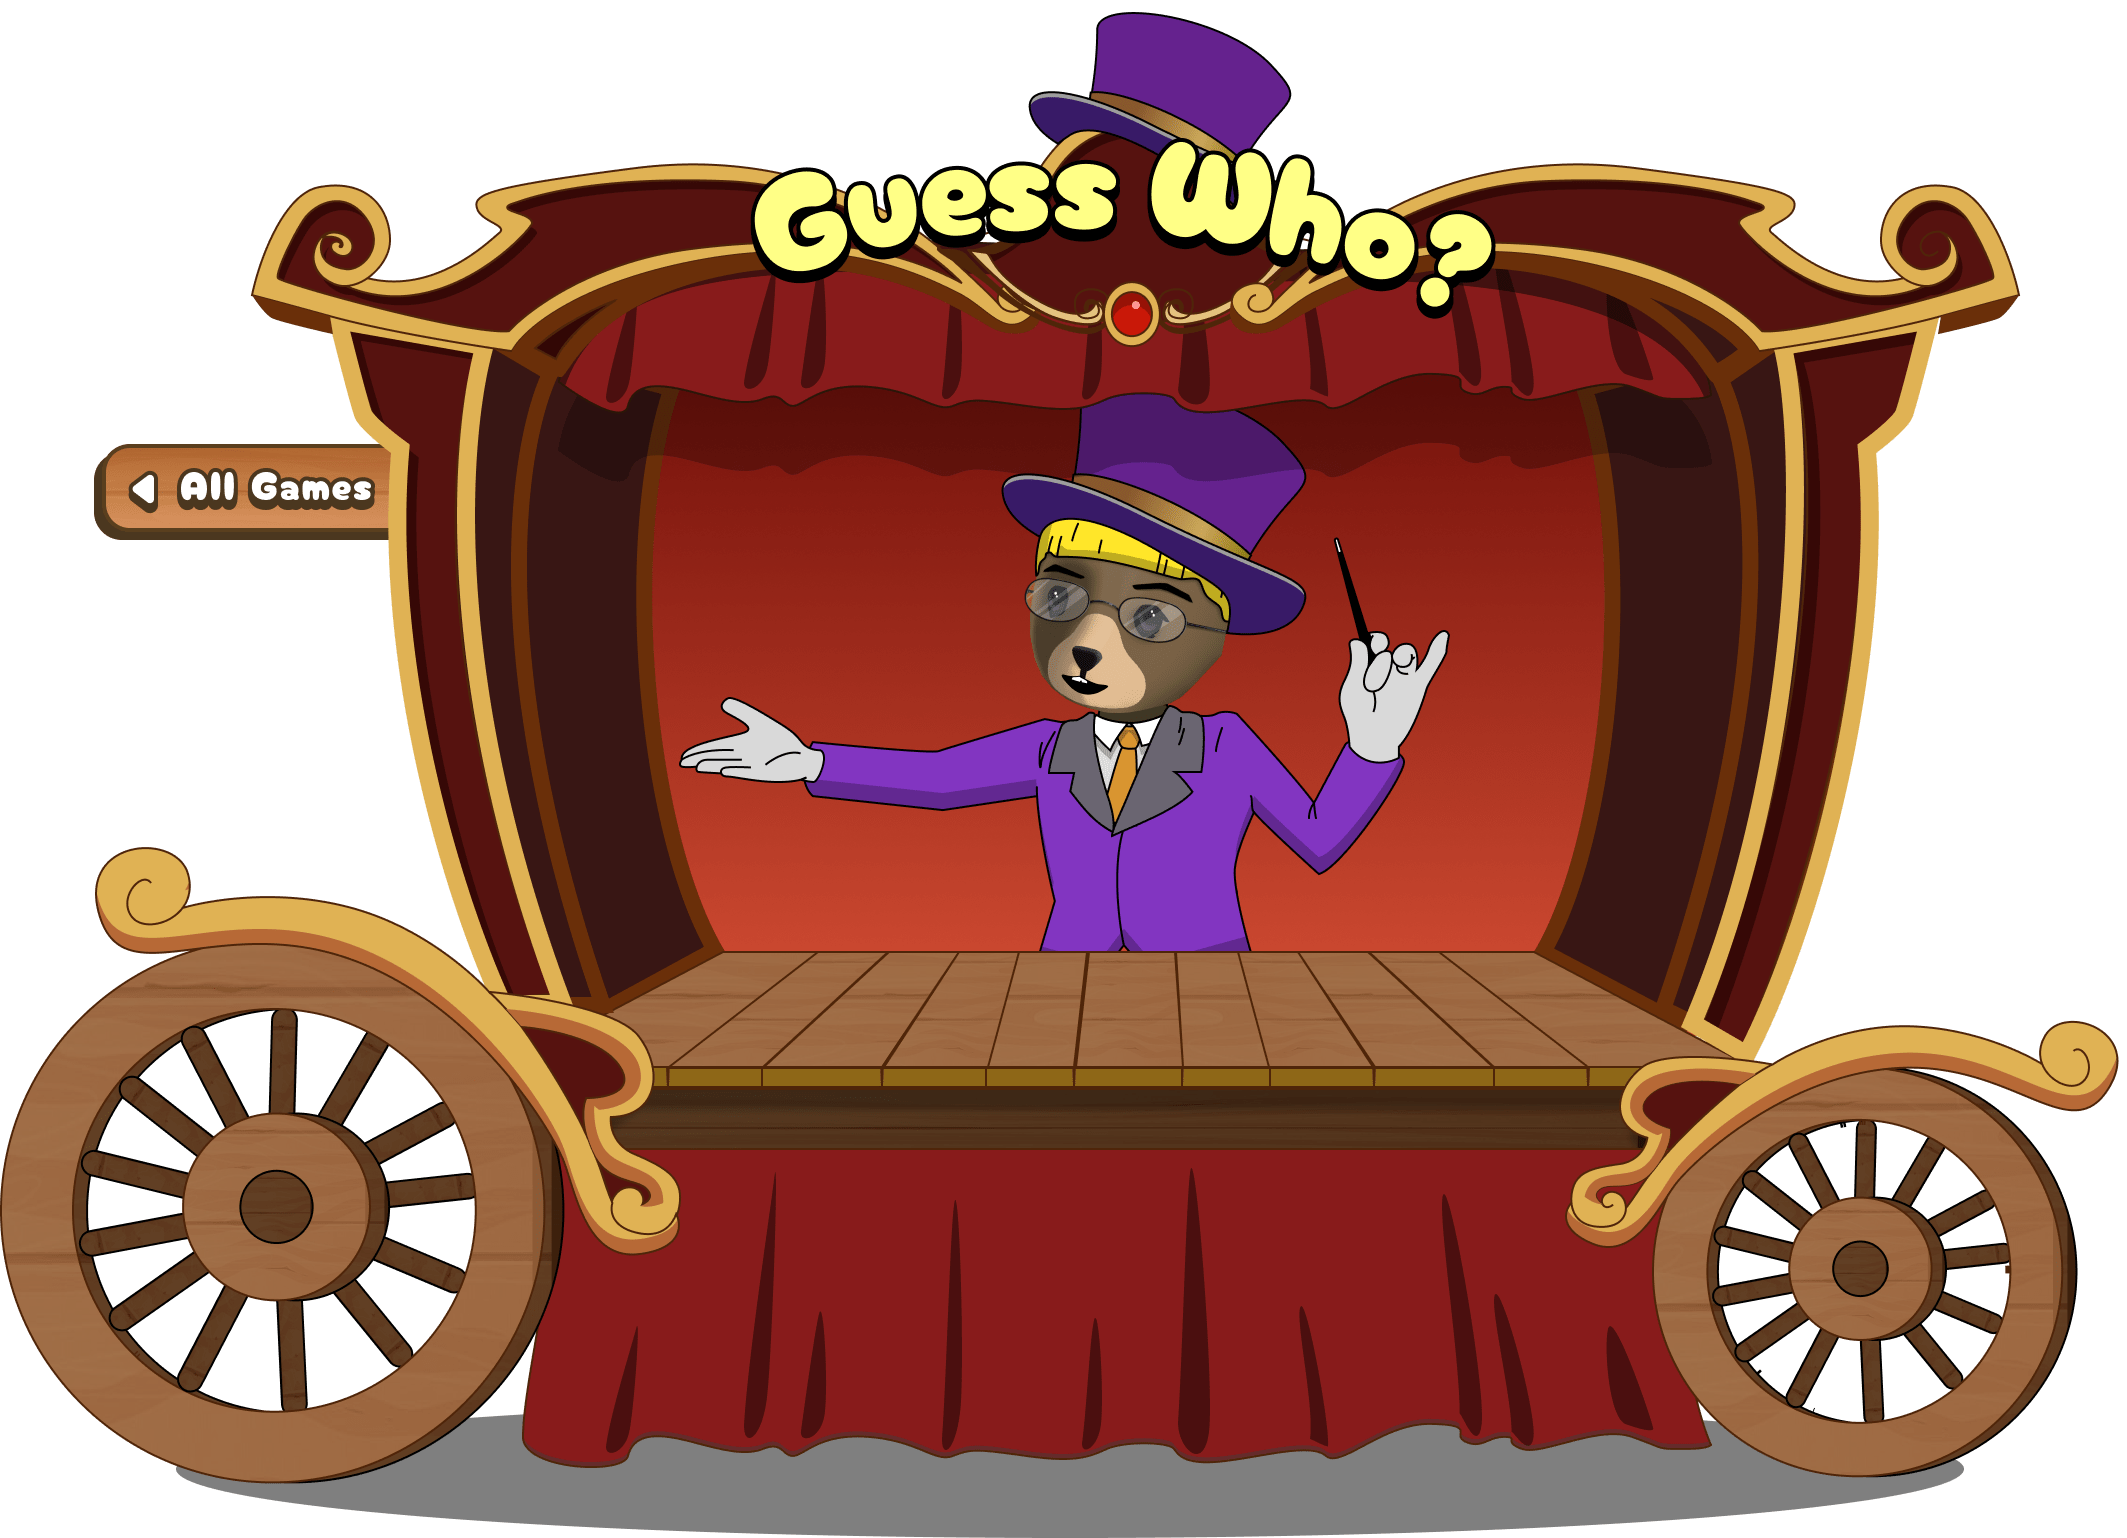
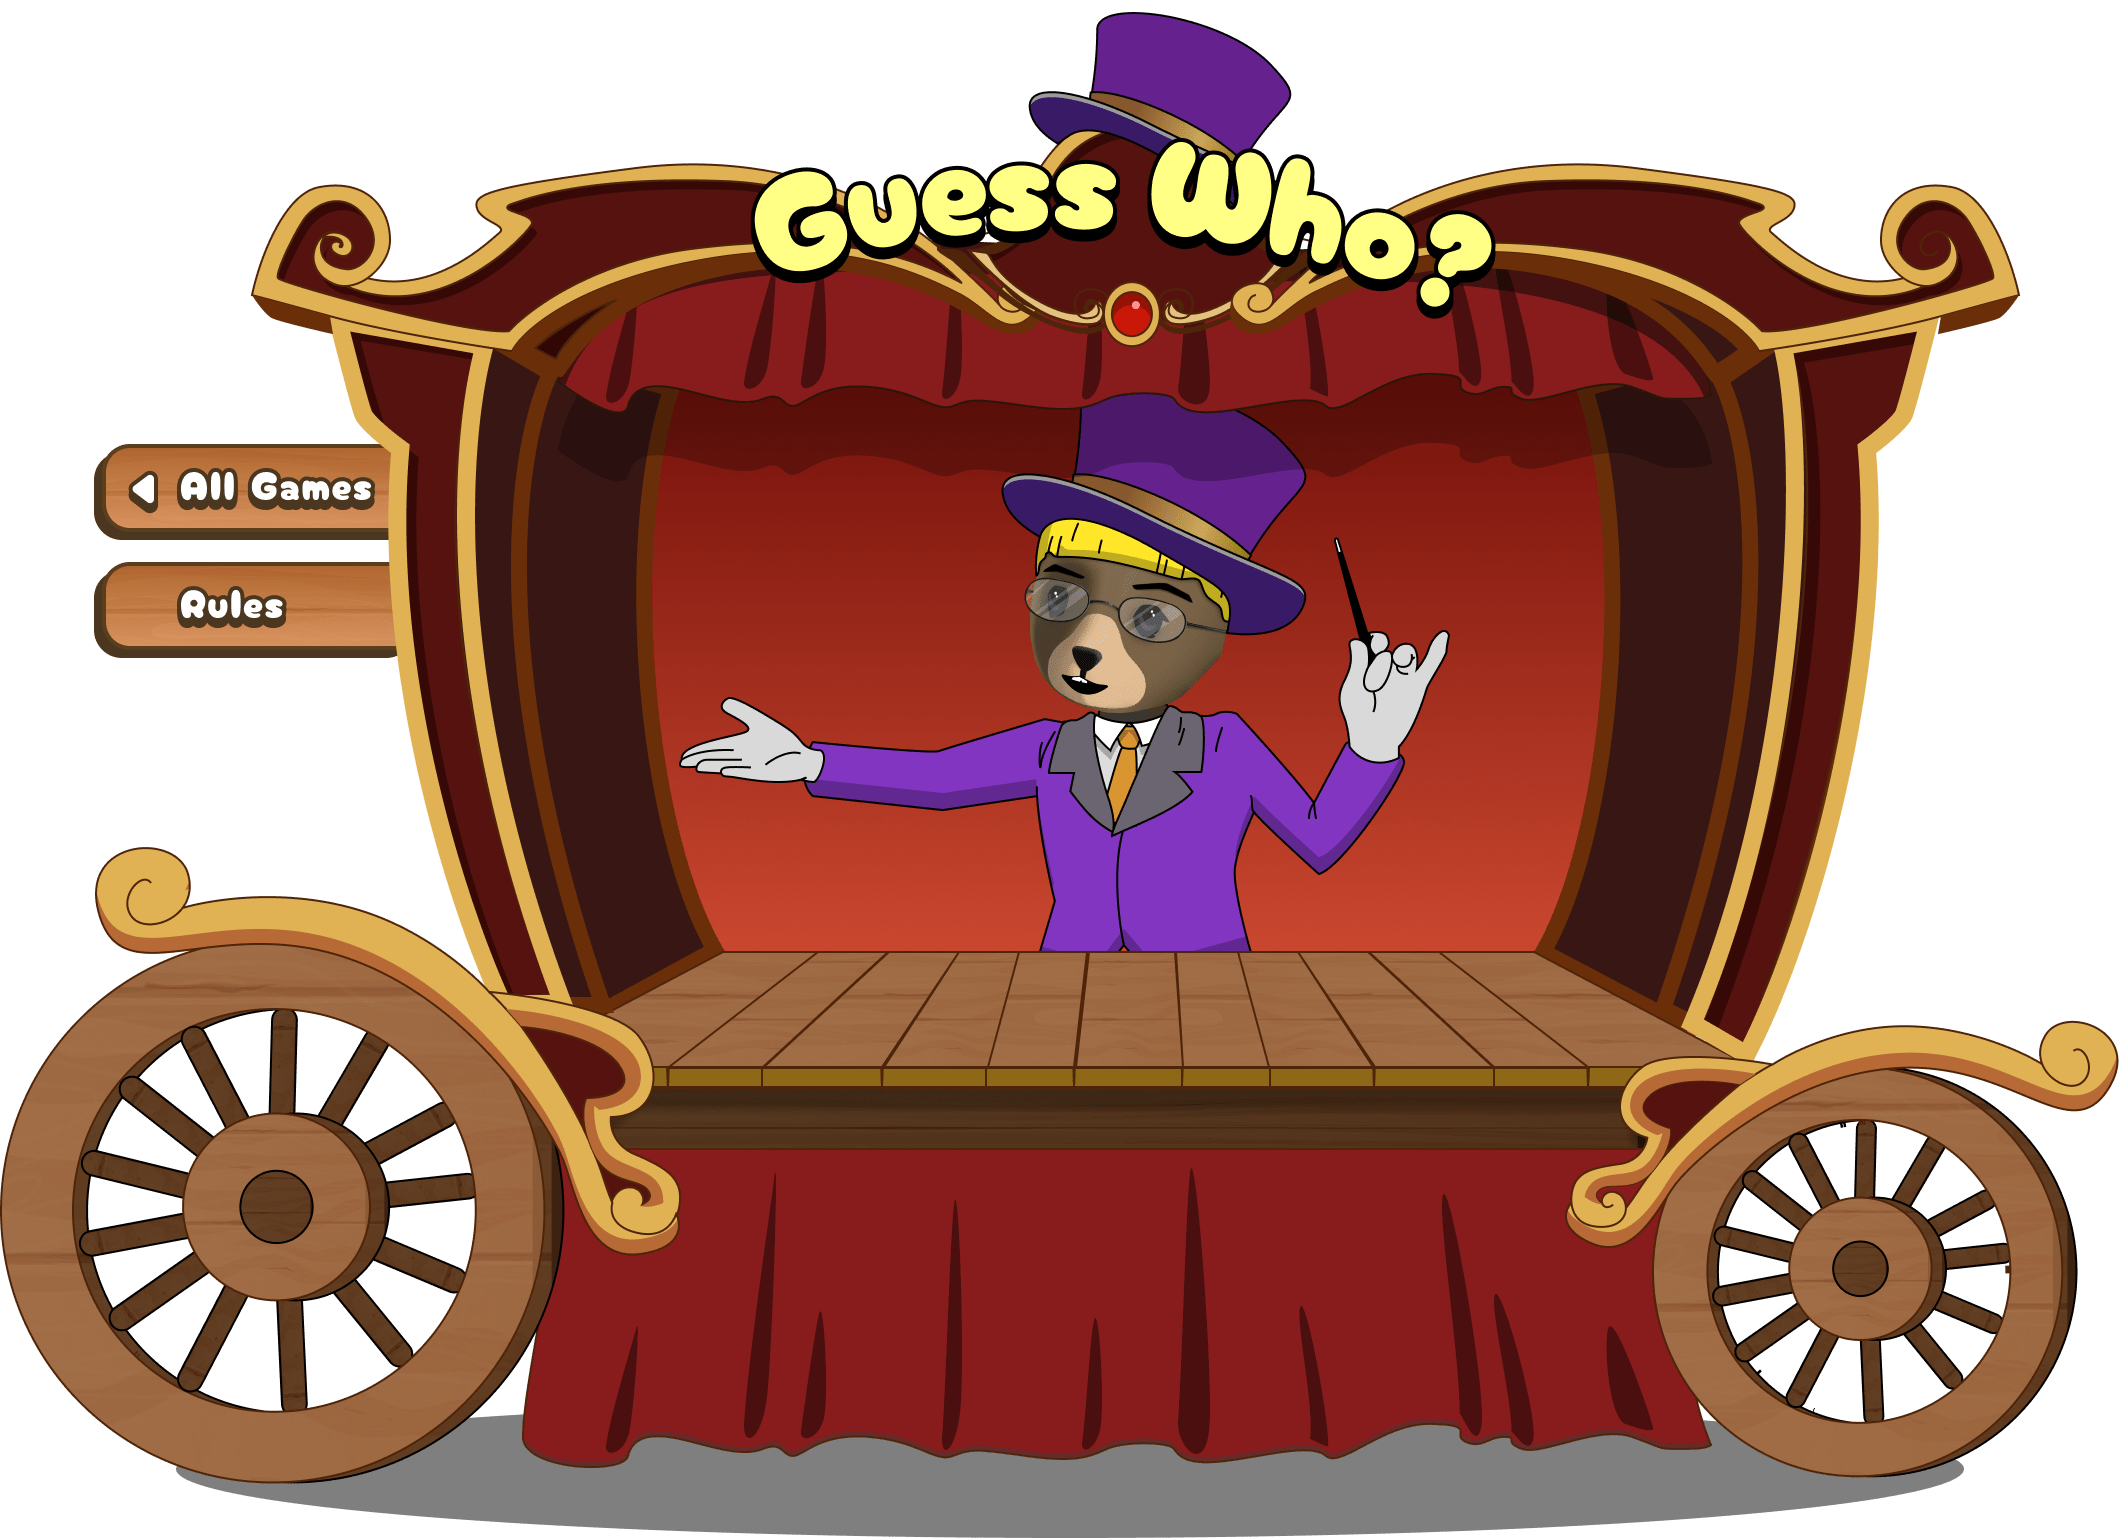
feat: add interactive button in Join section and update List section with commented-out button for rules

Changed region(s): [[0.031, 0.3433, 0.1862, 0.4369]]

diff --git a/src/sections/playground/magician/sections/join.tsx b/src/sections/playground/magician/sections/join.tsx
@@ -51,6 +51,14 @@ const Join = (props: any) => {
         />
         <button
           type="button"
+          className="w-[144px] h-[40px] border-[1px] rounded-l-[12px] absolute left-[52px] top-[283px] opacity-0 hover:opacity-30 bg-white/50 transition-all duration-300"
+          onClick={() => {
+            magician.playAudio({ type: "click", action: "play" });
+            magician.setRulesOpen(true);
+          }}
+        />
+        {/* <button
+          type="button"
           className="absolute top-[180px] right-[100px] w-[55px] h-[30px] border border-black rounded-[12px] bg-[linear-gradient(180deg,_#FFCE78_0%,_#9E762F_100%)] rotate-[-8.017deg] font-CherryBomb text-[16px] font-[400] leading-[90%]"
           onClick={() => {
             magician.playAudio({ type: "click", action: "play" });
@@ -58,7 +66,7 @@ const Join = (props: any) => {
           }}
         >
           Rules
-        </button>
+        </button> */}
         {
           !!join.result ? (
             <>

diff --git a/src/sections/playground/magician/sections/list.tsx b/src/sections/playground/magician/sections/list.tsx
@@ -196,7 +196,7 @@ const List = (props: any) => {
       </div>
       <div className="w-[837px] relative mt-[10px] p-[13px_20px] bg-[#BC9549] border border-[#000] shadow-[4px_4px_0_0_#4B371F] rounded-[10px]">
         <div className="flex justify-center items-center relative">
-          <Button
+          {/* <Button
             onClick={() => {
               magician.playAudio({ type: "click", action: "play" });
               magician.setRulesOpen(true);
@@ -206,7 +206,7 @@ const List = (props: any) => {
             <div className="">
               Rules
             </div>
-          </Button>
+          </Button> */}
           <SwitchTabs
             tabs={[
               {
